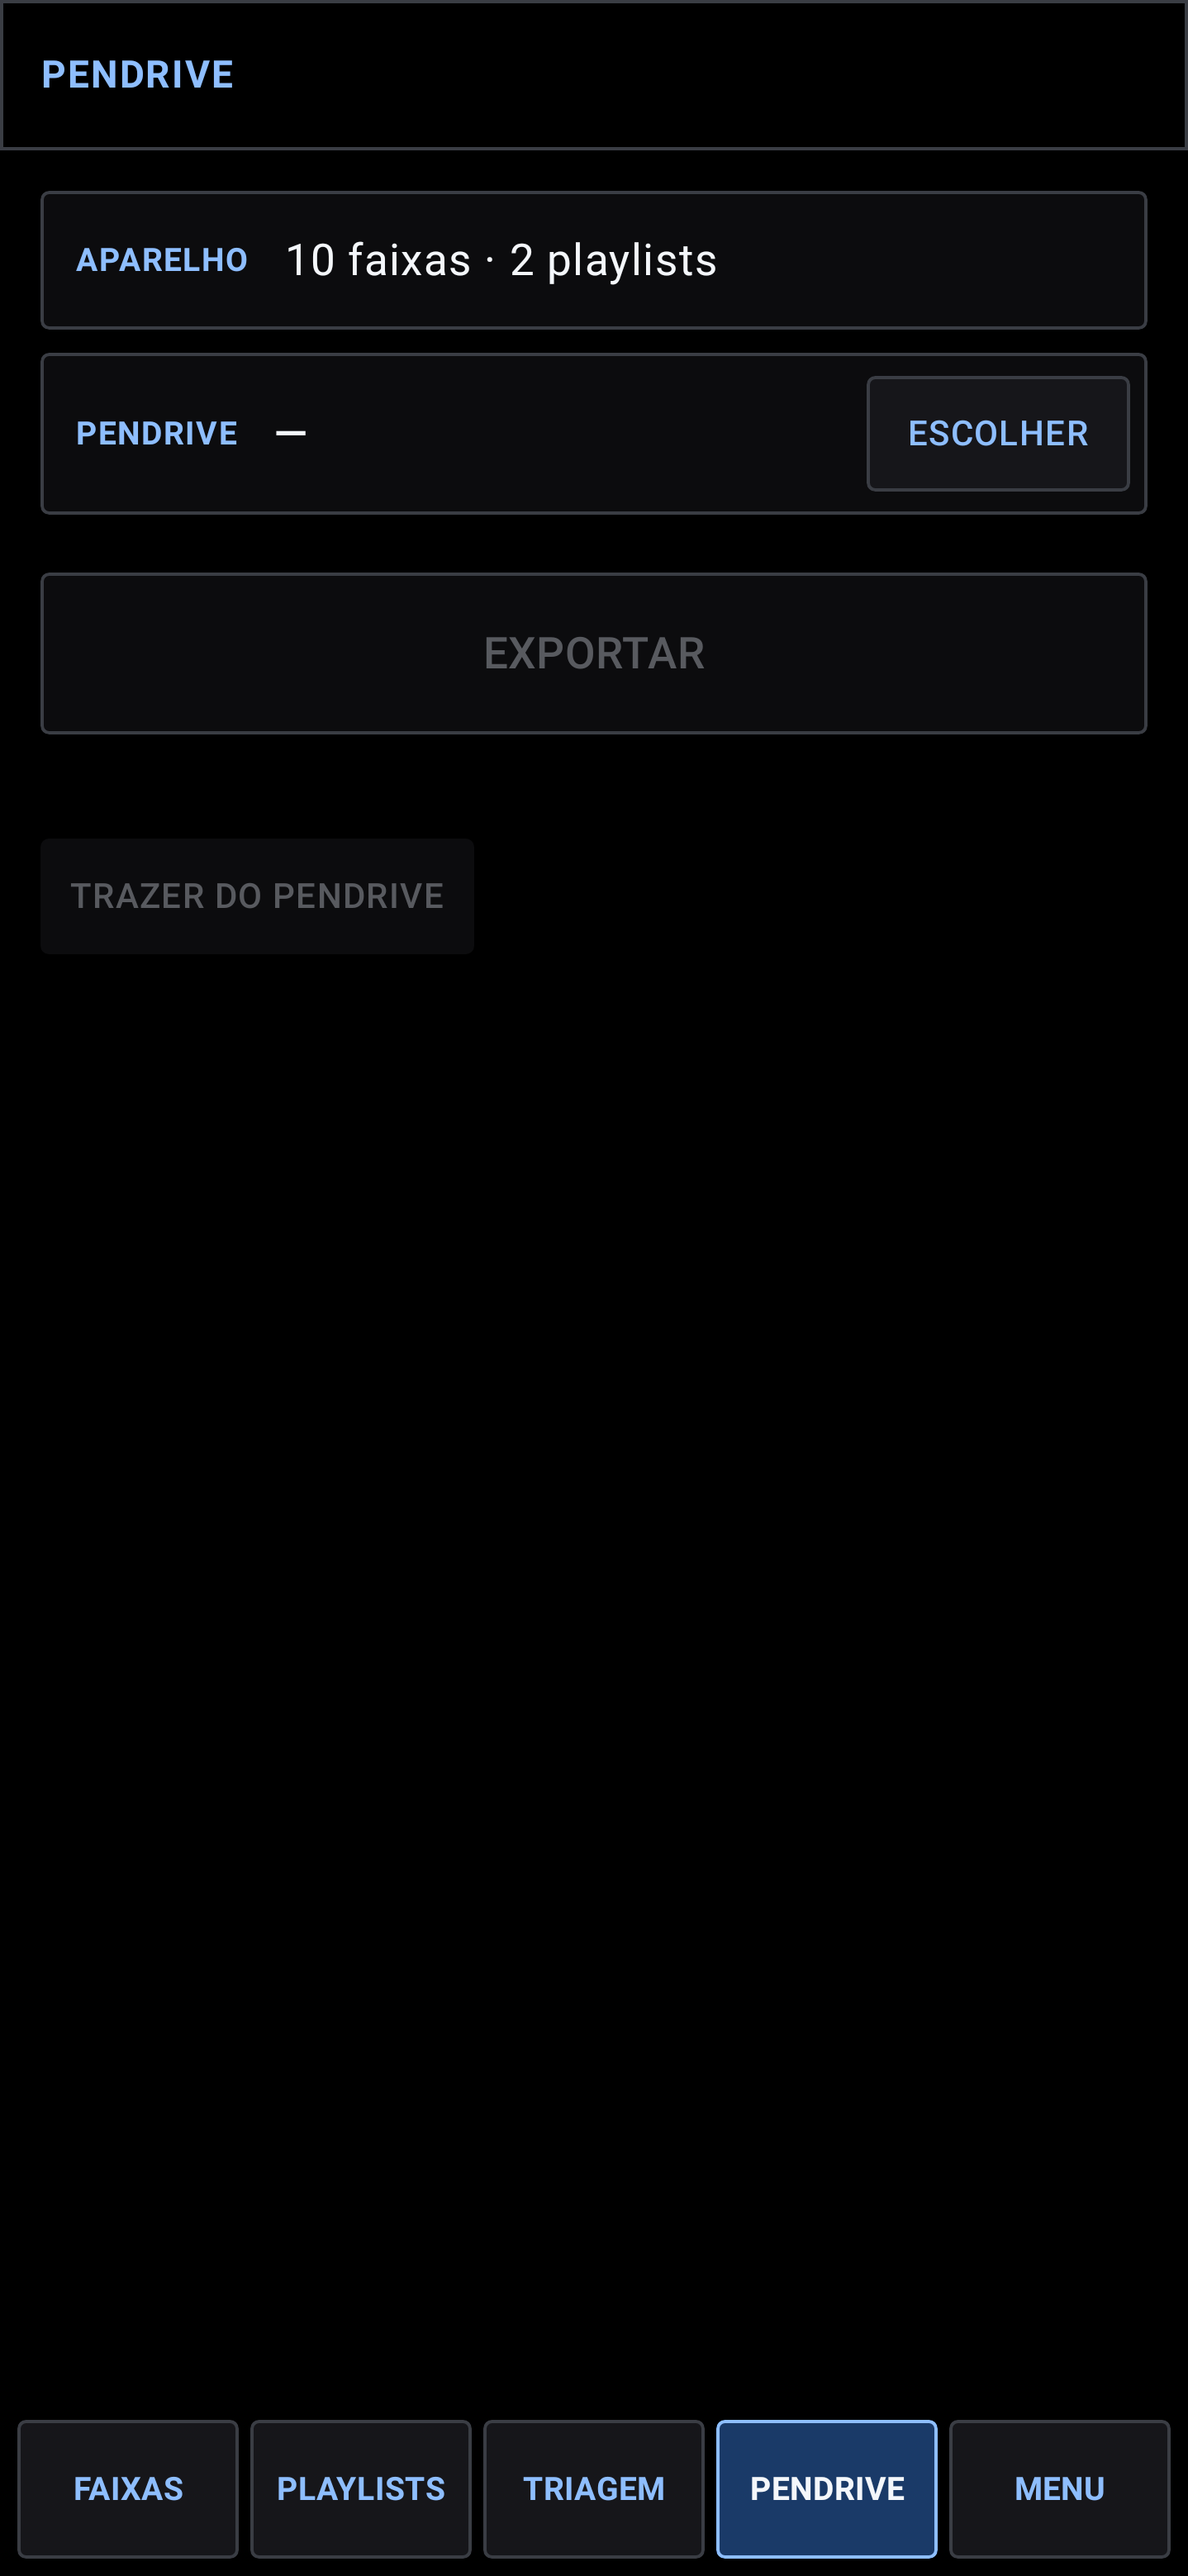
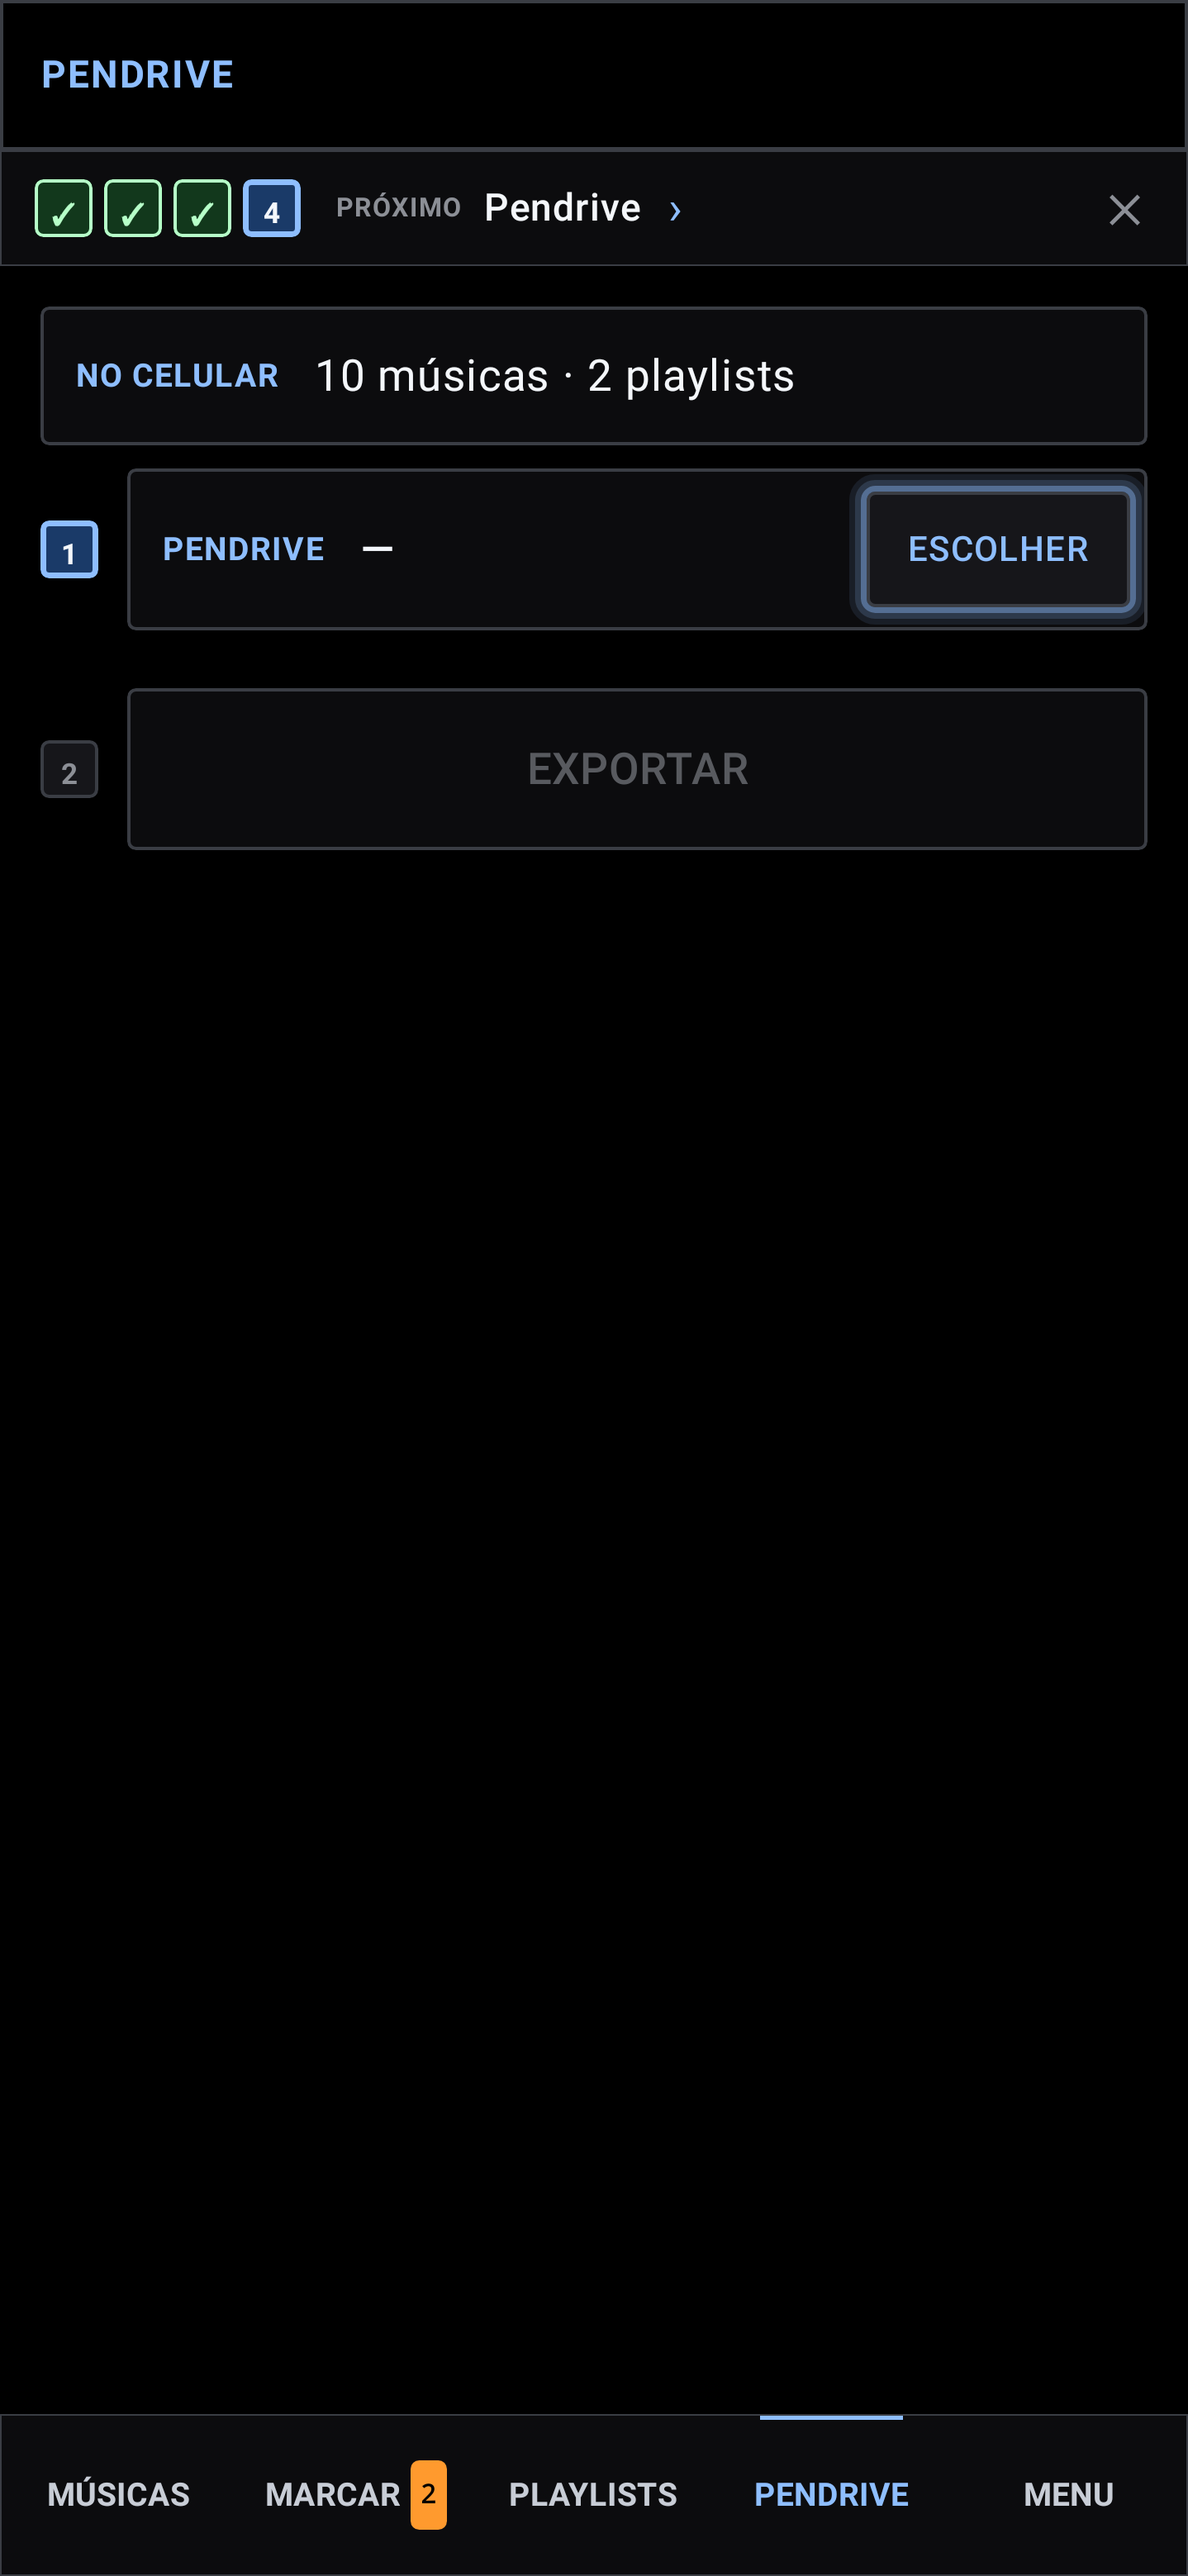
Refino de design: entrada do app de computador, capturas e versão 0.13.0
Claude-Session: https://claude.ai/code/session_01Sb59H5wbN2UPN3Jxgrj5kb

diff --git a/desktop/src/main/kotlin/os/deckbridge/manager/ui/App.kt b/desktop/src/main/kotlin/os/deckbridge/manager/ui/App.kt
@@ -14,6 +14,7 @@ import androidx.compose.foundation.layout.fillMaxWidth
 import androidx.compose.foundation.layout.height
 import androidx.compose.foundation.layout.padding
 import androidx.compose.foundation.layout.width
+import androidx.compose.foundation.layout.size
 import androidx.compose.foundation.lazy.LazyColumn
 import androidx.compose.foundation.lazy.items
 import androidx.compose.foundation.rememberScrollState
@@ -219,12 +220,17 @@ fun localLibraryRoot(): File = File(System.getProperty("user.home"), ".deckbridg
 @Composable
 private fun Welcome(model: ManagerModel, ui: UiState) {
     val found = remember { VolumeDetector.find() }
+    // A porta de entrada: o ícone e o nome do app, uma frase do que ele faz e onde abrir a biblioteca.
     Box(Modifier.fillMaxSize(), contentAlignment = Alignment.Center) {
-        Column(Modifier.width(360.dp), verticalArrangement = Arrangement.spacedBy(10.dp)) {
-            Label("BIBLIOTECA", Pal.Blue, 13.sp, bold = true)
-            Btn("Neste computador", { os.deckbridge.manager.transfer.LocalLibrary.ensure(localLibraryRoot()); model.open(localLibraryRoot()) }, Modifier.fillMaxWidth(), primary = true)
-            found.forEach { f -> Btn("Pendrive · ${f.name.ifEmpty { f.path }}", { model.open(f) }, Modifier.fillMaxWidth()) }
-            Btn("Outra pasta…", { ui.chooser()?.let { model.open(it) } }, Modifier.fillMaxWidth())
+        Column(Modifier.width(400.dp), verticalArrangement = Arrangement.spacedBy(10.dp), horizontalAlignment = Alignment.CenterHorizontally) {
+            androidx.compose.foundation.Image(os.deckbridge.manager.AppIcon, contentDescription = null, modifier = Modifier.size(88.dp))
+            Label("DeckBridge Biblioteca", Pal.Ink, 22.sp, bold = true)
+            Label("Marque as músicas, monte sets com vertentes e leve tudo para o pendrive do rekordbox.", Pal.Muted, 13.sp, maxLines = 2)
+            Spacer(Modifier.height(18.dp))
+            Label("ABRIR A BIBLIOTECA", Pal.Blue, 11.sp, bold = true, modifier = Modifier.fillMaxWidth())
+            Btn("Neste computador", { os.deckbridge.manager.transfer.LocalLibrary.ensure(localLibraryRoot()); model.open(localLibraryRoot()) }, Modifier.fillMaxWidth().height(44.dp), primary = true)
+            found.forEach { f -> Btn("Pendrive · ${f.name.ifEmpty { f.path }}", { model.open(f) }, Modifier.fillMaxWidth().height(44.dp)) }
+            Btn("Outra pasta…", { ui.chooser()?.let { model.open(it) } }, Modifier.fillMaxWidth().height(44.dp))
         }
     }
 }

diff --git a/docs/runbooks/implementation-log.md b/docs/runbooks/implementation-log.md
@@ -1124,3 +1124,6 @@ O equipamento físico fica para o fim. Simulação não foi montada (T075–T077
 - Pedido: rodada de refino de design, layout e usabilidade.
 - Auditoria nas capturas atuais (celular em pé e deitado): (1) barra de baixo com cinco caixas de borda grossa e o anel duplo do guia parecendo defeito; deitado, rótulos cortados (MÚS, MARC); (2) guia com quatro caixas e linhas longas ocupando uma faixa da tela; (3) filtros com texto maior que o título das faixas; (4) quadrado colorido grande em cada música; (5) ✕ vermelho em cada linha da playlist e nome da playlist cortado pelos botões; (6) na faixa, OUVIR depois dos números, longe da onda.
 - Correções: barra de baixo plana (o ativo em azul com traço em cima, contagem num selo laranja pequeno); barra lateral com os nomes inteiros; guia numa linha fina (quatro marcas pequenas + "PRÓXIMO Pendrive ›"); destaque do guia como halo suave (o mesmo componente vale no celular e no computador); filtros em 13sp e 32dp; cor da faixa como tirinha na borda da linha; playlist com o nome em cima da contagem ("4 músicas") e ▲ ▼ ✕ discretos; aba MARCAR da faixa na ordem de quem marca (números, onda, OUVIR, nota e cor, playlists); "‹ VOLTAR" virou "‹" (com descrição "Voltar" para leitores de tela).
+- Computador: tela de entrada com o ícone e o nome do app, uma frase do que ele faz e os botões de abrir maiores (antes: dois botões pequenos no meio de uma tela preta).
+- Evidência: celular completo 67 (3 pulados, 0 falhas) com o novo visual, computador 8 (2 pulados). Capturas atualizadas em `docs/ui/` (mobile-01, 03, 04, 05, 06, 10, 14; desktop-boas-vindas). Versão 0.13.0.
+- Não verificado: no aparelho.
